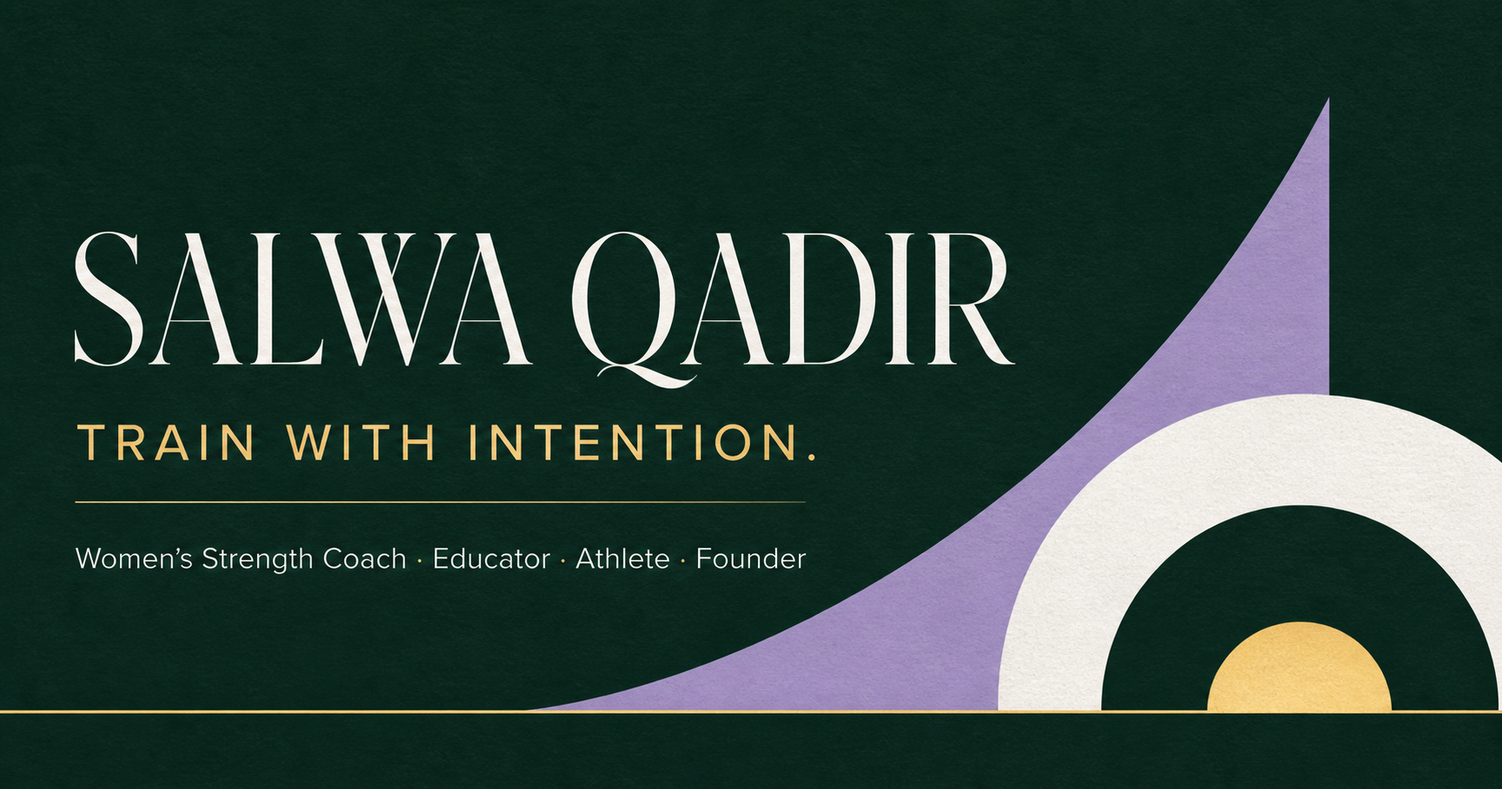
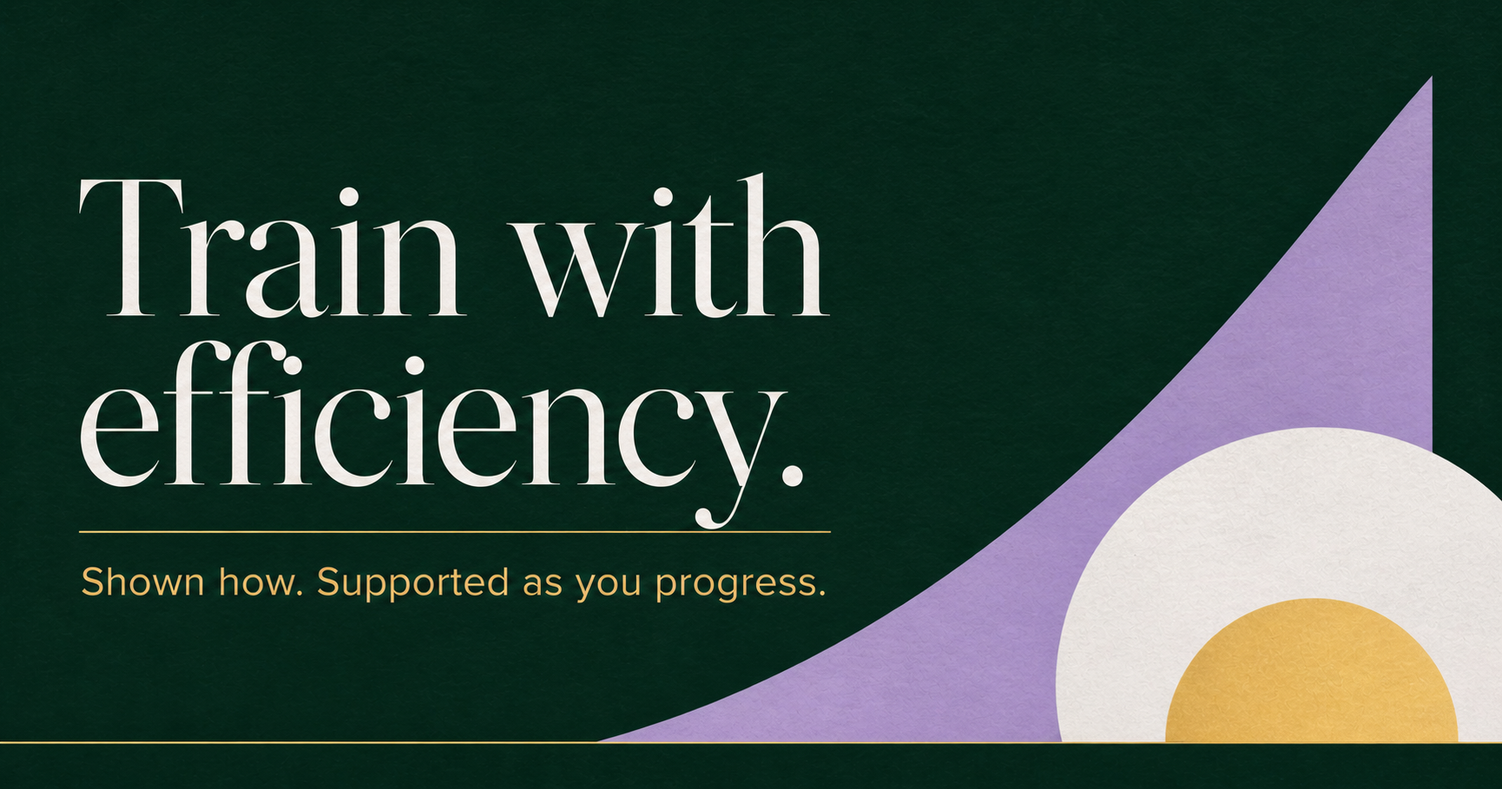
Rename approach to Train With Efficiency

Changed region(s): [[0.0, 0.0924, 1.0, 0.9549]]

diff --git a/public/index.html b/public/index.html
@@ -4,18 +4,18 @@
   <meta charset="utf-8">
   <meta name="viewport" content="width=device-width, initial-scale=1, viewport-fit=cover">
   <meta name="theme-color" content="#fbfcf9">
-  <meta name="description" content="Women’s strength coaching that teaches you to train with intention, understand your programming, recover intelligently, and progress with expert guidance.">
+  <meta name="description" content="Women’s strength coaching through Train With Efficiency: understand how exercise variations differ, choose what fits your goals, and progress with expert guidance.">
   <title>Salwa Qadir | Women’s Strength Coach in Milton &amp; Mississauga</title>
   <link rel="canonical" href="https://salwaqadir.com/">
   <link rel="icon" href="favicon.svg" type="image/svg+xml">
   <meta property="og:title" content="Salwa Qadir | Women’s Strength Coach in Milton &amp; Mississauga">
-  <meta property="og:description" content="Women’s strength coaching that teaches you to train with intention, understand your programming, recover intelligently, and progress with expert guidance.">
+  <meta property="og:description" content="Women’s strength coaching through Train With Efficiency: understand how exercise variations differ, choose what fits your goals, and progress with expert guidance.">
   <meta property="og:url" content="https://salwaqadir.com/">
   <meta property="og:type" content="website">
   <meta property="og:image" content="https://salwaqadir.com/og.png">
   <meta name="twitter:card" content="summary_large_image">
   <meta name="twitter:title" content="Salwa Qadir | Women’s Strength Coach in Milton &amp; Mississauga">
-  <meta name="twitter:description" content="Women’s strength coaching that teaches you to train with intention, understand your programming, recover intelligently, and progress with expert guidance.">
+  <meta name="twitter:description" content="Women’s strength coaching through Train With Efficiency: understand how exercise variations differ, choose what fits your goals, and progress with expert guidance.">
   <meta name="twitter:image" content="https://salwaqadir.com/og.png">
   <link rel="preconnect" href="https://fonts.googleapis.com">
   <link rel="preconnect" href="https://fonts.gstatic.com" crossorigin>
@@ -110,6 +110,9 @@
     .hero h1 { max-width: 12ch; font-size: clamp(3rem, 12.5vw, 6.7rem); }
     .hero-copy { max-width: 620px; margin: 22px 0 0; color: var(--ink); font-size: clamp(.98rem, 1.4vw, 1.15rem); }
     .hero-statement { max-width: 560px; color: var(--green); font-family: var(--serif); font-size: clamp(1.35rem, 2.25vw, 1.9rem); line-height: 1.16; }
+    .hero-supporting-copy { max-width: 660px; margin-top: 20px; }
+    .hero-supporting-copy .hero-copy { margin: 0; font-size: clamp(.9rem, 1.08vw, 1rem); line-height: 1.5; }
+    .hero-supporting-copy .hero-copy + .hero-copy { margin-top: 11px; }
     .program-link { color: var(--green); font-family: var(--serif); font-size: 1.16em; font-style: italic; font-weight: 700; }
     .hero-actions { display: flex; flex-wrap: wrap; gap: 12px; margin-top: 28px; }
     .scroll-hint { position: absolute; bottom: 24px; left: 50%; display: grid; justify-items: center; gap: 7px; transform: translateX(-50%); color: var(--muted); font-size: .62rem; font-weight: 700; letter-spacing: .18em; }
@@ -245,7 +248,7 @@
       :root { --header-h: 86px; }
       .hero { min-height: 100svh; display: grid; grid-template-columns: 42% 58%; grid-template-rows: auto 1fr; padding-top: 0; }
       .hero-role { position: relative; top: auto; right: auto; left: auto; grid-column: 2; grid-row: 1; width: auto; height: auto; min-height: 0; display: block; align-self: end; padding: 130px clamp(48px, 6vw, 100px) 0; }
-      .hero-media { grid-column: 1; grid-row: 1 / 3; height: 100svh; min-height: 100svh; }
+      .hero-media { grid-column: 1; grid-row: 1 / 3; height: auto; min-height: 100svh; align-self: stretch; }
       .hero-media img { object-position: center 55%; }
       .hero-content { grid-column: 2; grid-row: 2; min-height: 0; padding: 24px clamp(48px, 6vw, 100px) 110px; }
       .hero h1 { font-size: clamp(4rem, 5.8vw, 6.4rem); }
@@ -259,6 +262,17 @@
       .about-grid { grid-template-columns: .88fr 1.12fr; gap: 84px; align-items: center; }
       .menu-panel { padding-right: max(var(--gutter), calc((100vw - 1200px) / 2)); padding-left: max(var(--gutter), calc((100vw - 1200px) / 2)); }
       .menu-nav a { min-height: 76px; }
+    }
+
+    @media (min-width: 900px) and (max-height: 820px) {
+      .hero-role { padding-top: 102px; }
+      .hero-content { padding-top: 18px; padding-bottom: 56px; }
+      .hero h1 { font-size: clamp(3.6rem, 5vw, 5rem); }
+      .hero-statement { margin-top: 16px; font-size: 1.45rem; }
+      .hero-supporting-copy { margin-top: 14px; }
+      .hero-supporting-copy .hero-copy { font-size: .86rem; line-height: 1.4; }
+      .hero-supporting-copy .hero-copy + .hero-copy { margin-top: 8px; }
+      .hero-actions { margin-top: 20px; }
     }
 
     @media (max-height: 680px) { .scroll-hint { display: none; } .hero-content { padding-bottom: 50px; } }
@@ -281,7 +295,7 @@
     <nav class="menu-nav" aria-label="Primary navigation">
       <a href="about.html">About Me</a>
       <a href="approach.html">My Approach</a>
-      <a href="approach.html#train-with-intention">Train With Intention</a>
+      <a href="approach.html#train-with-efficiency">Train With Efficiency</a>
       <a href="stories.html">Client Stories</a>
       <a href="contact.html">Contact</a>
     </nav>
@@ -299,9 +313,13 @@
         <img src="assets/approach.jpg" alt="Salwa Qadir seated behind a barbell with a stability ball and water bottle" fetchpriority="high">
       </div>
       <div class="hero-content">
-        <h1 id="hero-heading">Train with <em class="accent">intention.</em></h1>
-        <p class="hero-copy hero-statement">Women don't need more exercises to copy. They need to understand what they're doing, how it should feel, and how to progress.</p>
-        <p class="hero-copy">My Train With Intention approach teaches women to move with control, understand their programming, recover intelligently, and become confident performing their training, with expert guidance behind them.</p>
+        <h1 id="hero-heading">Train with <em class="accent">efficiency.</em></h1>
+        <p class="hero-copy hero-statement">While the world is asking women to do more, I show you how to do less, so you can do more.</p>
+        <div class="hero-supporting-copy">
+          <p class="hero-copy">You can front squat or back squat. You can squat in a way where you feel more in your knees, or in your thighs, or in your glutes or in your calves. None of these are wrong.</p>
+          <p class="hero-copy">The question is: what do you want, why do you want it and how do you get there?</p>
+          <p class="hero-copy">Train With Efficiency shows you how these variations differ, how your goals determine which one we choose, and what you should feel when you're doing it. Because in this day and age, who has time to do more?</p>
+        </div>
         <div class="hero-actions">
           <a class="button button-solid" href="work.html">Work With Me</a>
           <a class="button button-outline" href="about.html">About Me</a>
@@ -317,7 +335,7 @@
           <h2 id="wbc-heading">The Women’s<br><span class="wbc-title-accent">Barbell Club</span></h2>
           <p class="wbc-pillars">Intention <i>•</i> Strength <i>•</i> Sisterhood</p>
           <p class="wbc-tagline"><span>Lighten Your Life.</span><em>Build strength. Fuel your body. Navigate real life together.</em></p>
-          <p class="wbc-body">I founded The Women’s Barbell Club to bring my Train With Intention approach into a community where women can build strength, understand their training, and stay supported as real life changes.</p>
+          <p class="wbc-body">I founded The Women’s Barbell Club to bring my Train With Efficiency approach into a community where women can build strength, understand their training, and stay supported as real life changes.</p>
           <p class="wbc-body">WBC is more than women lifting. It is a hybrid online and in-person community bringing together strength programming, technique, workout classes, lifting events, meal prep and fuel, retreats, and the sisterhood that helps carry the load of life.</p>
         </div>
         <a class="wbc-waitlist" href="https://www.thewomensbarbell.club/wbc-waitlist" aria-label="Join The Women’s Barbell Club waitlist">

diff --git a/public/contact.html b/public/contact.html
@@ -14,14 +14,14 @@
 <body>
   <a class="skip-link" href="#main">Skip to content</a>
   <header class="site-header" id="site-header"><a class="wordmark" href="index.html" aria-label="Salwa Qadir home"><span>SALWA</span><span>QADIR</span></a><button class="menu-toggle" type="button" aria-expanded="false" aria-controls="site-menu" aria-label="Open menu"><span></span><span></span><span></span></button></header>
-  <aside class="menu-panel" id="site-menu" aria-hidden="true"><nav class="menu-nav" aria-label="Primary navigation"><a href="about.html">About Me</a><a href="approach.html">My Approach</a><a href="approach.html#train-with-intention">Train With Intention</a><a href="stories.html">Client Stories</a><a href="contact.html">Contact</a></nav><div class="menu-footer"><span>Women’s Strength Coach · Educator · Athlete · Founder</span><a class="menu-instagram" href="https://www.instagram.com/salwaqfitness/" target="_blank" rel="noopener noreferrer">Instagram @salwaqfitness ↗</a></div></aside>
+  <aside class="menu-panel" id="site-menu" aria-hidden="true"><nav class="menu-nav" aria-label="Primary navigation"><a href="about.html">About Me</a><a href="approach.html">My Approach</a><a href="approach.html#train-with-efficiency">Train With Efficiency</a><a href="stories.html">Client Stories</a><a href="contact.html">Contact</a></nav><div class="menu-footer"><span>Women’s Strength Coach · Educator · Athlete · Founder</span><a class="menu-instagram" href="https://www.instagram.com/salwaqfitness/" target="_blank" rel="noopener noreferrer">Instagram @salwaqfitness ↗</a></div></aside>
   <main class="interior-main" id="main">
     <section class="section work" aria-labelledby="work-heading"><div class="shell">
       <a class="page-back" href="index.html">← Home</a>
       <div class="section-heading"><div><p class="eyebrow">Work with me</p><h1 id="work-heading">Get stronger for what <em class="accent">matters to you.</em></h1></div><p>My work takes different forms, but the starting point is always the woman in front of me. Whether you are here to get stronger, build your fitness career, bring meaningful education to a group, or explore a collaboration, we begin with what matters to you.</p></div>
       <div class="offer-grid" id="coaching-options">
         <article class="offer-card featured"><span class="offer-tag">ONE-TO-ONE COACHING</span><h3>One-to-One Strength Coaching</h3><strong class="offer-location">Mississauga and Milton, Ontario</strong><p>One-to-one coaching is especially suited to women returning to strength training after injury or surgery, or working with limitations that require closer attention.</p><p>The individual format gives us the time to focus on execution, make precise adjustments, and rebuild strength progressively. Where appropriate, I work alongside your physiotherapist or healthcare provider so your training supports the work already being done.</p><div class="offer-investment"><span>Investment</span><strong>$120 per session</strong></div><div class="offer-meta"><span>Limited availability</span></div><a class="text-link" href="#contact">Inquire about one-to-one coaching →</a></article>
-        <article class="offer-card featured"><span class="offer-tag">SMALL-GROUP TRAINING</span><h3>Women’s Strength Coaching</h3><strong class="offer-location">Mississauga and Milton, Ontario</strong><p>Small-group training built around my Train With Intention approach. You learn to move with control, understand your programming, recover intelligently, and make measurable progress with coaching and accountability behind you.</p><p>Coaching is purchased monthly and runs in 6 to 12 week cohorts, depending on the time of year.</p><div class="offer-investment"><span>Investment</span><strong>$280 per month</strong><small>8 sessions · $35 per session</small></div><div class="offer-meta"><span>Limited availability</span></div><a class="text-link" href="#contact">Inquire about small-group training →</a></article>
+        <article class="offer-card featured"><span class="offer-tag">SMALL-GROUP TRAINING</span><h3>Women’s Strength Coaching</h3><strong class="offer-location">Mississauga and Milton, Ontario</strong><p>Small-group training built around my Train With Efficiency approach. You learn to move with control, understand your programming, recover intelligently, and make measurable progress with coaching and accountability behind you.</p><p>Coaching is purchased monthly and runs in 6 to 12 week cohorts, depending on the time of year.</p><div class="offer-investment"><span>Investment</span><strong>$280 per month</strong><small>8 sessions · $35 per session</small></div><div class="offer-meta"><span>Limited availability</span></div><a class="text-link" href="#contact">Inquire about small-group training →</a></article>
         <article class="offer-card"><span class="offer-tag">MENTORSHIP</span><h3>Fitness Business Mentorship</h3><p>Focused one-to-one calls for women building careers in fitness. Bring client questions, sales challenges, or business-development decisions, and we’ll troubleshoot them together with practical, experience-led guidance.</p><div class="offer-meta"><span>Limited one-to-one availability</span></div><a class="text-link" href="#contact">Inquire about current openings →</a></article>
         <article class="offer-card"><span class="offer-tag">EDUCATION</span><h3>Workshops + Speaking</h3><p>Practical education for women, personal trainers, and communities on strength, training, and sustainable health.</p><div class="offer-meta"><span>In-person + virtual</span></div><a class="text-link" href="#contact">Discuss a workshop →</a></article>
         <article class="offer-card offer-card-wide"><span class="offer-tag">COLLABORATION</span><h3>Brand + Media Partnerships</h3><p>Values-aligned collaborations in women’s health, fitness, strength, recovery, and longevity.</p><div class="offer-meta"><span>Partnership inquiries</span></div><a class="text-link" href="#contact">Discuss a partnership →</a></article>
@@ -32,7 +32,7 @@
       <h2 id="wbc-heading">The Women’s<br><span class="wbc-title-accent">Barbell Club</span></h2>
       <p class="wbc-pillars">Intention <i>•</i> Strength <i>•</i> Sisterhood</p>
       <p class="wbc-tagline"><span>Lighten Your Life.</span><em>Build strength. Fuel your body. Navigate real life together.</em></p>
-      <p class="wbc-body">I founded The Women’s Barbell Club to bring my Train With Intention approach into a community where women can build strength, understand their training, and stay supported as real life changes.</p>
+      <p class="wbc-body">I founded The Women’s Barbell Club to bring my Train With Efficiency approach into a community where women can build strength, understand their training, and stay supported as real life changes.</p>
       <p class="wbc-body">WBC is more than women lifting. It is a hybrid online and in-person community bringing together strength programming, technique, workout classes, lifting events, meal prep and fuel, retreats, and the sisterhood that helps carry the load of life.</p>
     </div><a class="wbc-waitlist" href="https://www.thewomensbarbell.club/wbc-waitlist" aria-label="Join The Women’s Barbell Club waitlist"><span>JOIN THE</span><strong>WAITLIST</strong><small>THE WOMEN’S BARBELL CLUB ↗</small></a></div></section>
     <section class="section contact" id="contact" aria-labelledby="contact-heading"><div class="shell"><div class="contact-grid">

diff --git a/public/work.html b/public/work.html
@@ -13,14 +13,14 @@
 <body>
   <a class="skip-link" href="#main">Skip to content</a>
   <header class="site-header" id="site-header"><a class="wordmark" href="index.html" aria-label="Salwa Qadir home"><span>SALWA</span><span>QADIR</span></a><button class="menu-toggle" type="button" aria-expanded="false" aria-controls="site-menu" aria-label="Open menu"><span></span><span></span><span></span></button></header>
-  <aside class="menu-panel" id="site-menu" aria-hidden="true"><nav class="menu-nav" aria-label="Primary navigation"><a href="about.html">About Me</a><a href="approach.html">My Approach</a><a href="approach.html#train-with-intention">Train With Intention</a><a href="stories.html">Client Stories</a><a href="contact.html">Contact</a></nav><div class="menu-footer"><span>Women’s Strength Coach · Educator · Athlete · Founder</span><a class="menu-instagram" href="https://www.instagram.com/salwaqfitness/" target="_blank" rel="noopener noreferrer">Instagram @salwaqfitness ↗</a></div></aside>
+  <aside class="menu-panel" id="site-menu" aria-hidden="true"><nav class="menu-nav" aria-label="Primary navigation"><a href="about.html">About Me</a><a href="approach.html">My Approach</a><a href="approach.html#train-with-efficiency">Train With Efficiency</a><a href="stories.html">Client Stories</a><a href="contact.html">Contact</a></nav><div class="menu-footer"><span>Women’s Strength Coach · Educator · Athlete · Founder</span><a class="menu-instagram" href="https://www.instagram.com/salwaqfitness/" target="_blank" rel="noopener noreferrer">Instagram @salwaqfitness ↗</a></div></aside>
   <main class="interior-main" id="main">
     <section class="section work" aria-labelledby="work-heading"><div class="shell">
       <a class="page-back" href="index.html">← Home</a>
       <div class="section-heading"><div><p class="eyebrow">Work with me</p><h1 id="work-heading">Get stronger for what matters to you.</h1></div><p>My work takes different forms, but the starting point is always the woman in front of me. Whether you are here to get stronger, build your fitness career, bring meaningful education to a group, or explore a collaboration, we begin with what matters to you.</p></div>
       <div class="offer-grid" id="coaching-options">
         <article class="offer-card featured"><span class="offer-tag">ONE-TO-ONE COACHING</span><h3>One-to-One Strength Coaching</h3><p>One-to-one coaching is especially suited to women returning to strength training after injury or surgery, or working with limitations that require closer attention.</p><p>The individual format gives us the time to focus on execution, make precise adjustments, and rebuild strength progressively. Where appropriate, I work alongside your physiotherapist or healthcare provider so your training supports the work already being done.</p><div class="offer-investment"><span>Investment</span><strong>$120 per session</strong></div><div class="offer-meta"><span>Mississauga and Milton, Ontario</span><span>Limited availability</span></div><a class="text-link" href="contact.html">Inquire about one-to-one coaching →</a></article>
-        <article class="offer-card featured"><span class="offer-tag">SMALL-GROUP TRAINING</span><h3>Women’s Strength Coaching</h3><p>Small-group training built around my Train With Intention approach. You learn to move with control, understand your programming, recover intelligently, and make measurable progress with coaching and accountability behind you.</p><p>Coaching is purchased monthly and runs in 6 to 12 week cohorts, depending on the time of year.</p><div class="offer-investment"><span>Investment</span><strong>$280 per month</strong><small>8 sessions · $35 per session</small></div><div class="offer-meta"><span>Mississauga and Milton, Ontario</span><span>Limited availability</span></div><a class="text-link" href="contact.html">Inquire about small-group training →</a></article>
+        <article class="offer-card featured"><span class="offer-tag">SMALL-GROUP TRAINING</span><h3>Women’s Strength Coaching</h3><p>Small-group training built around my Train With Efficiency approach. You learn to move with control, understand your programming, recover intelligently, and make measurable progress with coaching and accountability behind you.</p><p>Coaching is purchased monthly and runs in 6 to 12 week cohorts, depending on the time of year.</p><div class="offer-investment"><span>Investment</span><strong>$280 per month</strong><small>8 sessions · $35 per session</small></div><div class="offer-meta"><span>Mississauga and Milton, Ontario</span><span>Limited availability</span></div><a class="text-link" href="contact.html">Inquire about small-group training →</a></article>
         <article class="offer-card"><span class="offer-tag">MENTORSHIP</span><h3>Fitness Business Mentorship</h3><p>Focused one-to-one calls for women building careers in fitness. Bring client questions, sales challenges, or business-development decisions, and we’ll troubleshoot them together with practical, experience-led guidance.</p><div class="offer-meta"><span>Limited one-to-one availability · Inquire about current openings</span></div><a class="text-link" href="contact.html">Inquire about mentorship →</a></article>
         <article class="offer-card"><span class="offer-tag">EDUCATION</span><h3>Workshops + Speaking</h3><p>Practical education for women, personal trainers, and communities on strength, training, and sustainable health.</p><div class="offer-meta"><span>In-person + virtual</span></div><a class="text-link" href="contact.html">Discuss a workshop →</a></article>
         <article class="offer-card offer-card-wide"><span class="offer-tag">COLLABORATION</span><h3>Brand + Media Partnerships</h3><p>Values-aligned collaborations in women’s health, fitness, strength, recovery, and longevity.</p><div class="offer-meta"><span>Partnership inquiries</span></div><a class="text-link" href="contact.html">Discuss a partnership →</a></article>

diff --git a/public/program.html b/public/program.html
@@ -1,7 +1,7 @@
 <!doctype html>
 <html lang="en"><head><meta charset="utf-8"><meta name="viewport" content="width=device-width, initial-scale=1, viewport-fit=cover"><meta name="theme-color" content="#eef2ee"><title>From Bodyweight to Barbells | Salwa Qadir</title><link rel="preconnect" href="https://fonts.googleapis.com"><link rel="preconnect" href="https://fonts.gstatic.com" crossorigin><link href="https://fonts.googleapis.com/css2?family=DM+Serif+Display:ital@0;1&amp;family=Inter:wght@400;500;600;700&amp;display=swap" rel="stylesheet"><link rel="stylesheet" href="assets/interior.css"></head>
 <body><a class="skip-link" href="#main">Skip to content</a><header class="site-header" id="site-header"><a class="wordmark" href="index.html" aria-label="Salwa Qadir home"><span>SALWA</span><span>QADIR</span></a><button class="menu-toggle" type="button" aria-expanded="false" aria-controls="site-menu" aria-label="Open menu"><span></span><span></span><span></span></button></header>
-  <aside class="menu-panel" id="site-menu" aria-hidden="true"><nav class="menu-nav" aria-label="Primary navigation"><a href="about.html">About Me</a><a href="approach.html">My Approach</a><a href="program.html">Bodyweight to Barbells</a><a href="stories.html">Client Stories</a><a href="contact.html">Contact</a></nav><div class="menu-footer"><span>Women’s Strength Coach · Educator · Athlete · Founder</span><a class="menu-instagram" href="https://www.instagram.com/salwaqfitness/" target="_blank" rel="noopener noreferrer">Instagram @salwaqfitness ↗</a></div></aside>
+  <aside class="menu-panel" id="site-menu" aria-hidden="true"><nav class="menu-nav" aria-label="Primary navigation"><a href="about.html">About Me</a><a href="approach.html">My Approach</a><a href="approach.html#train-with-efficiency">Train With Efficiency</a><a href="stories.html">Client Stories</a><a href="contact.html">Contact</a></nav><div class="menu-footer"><span>Women’s Strength Coach · Educator · Athlete · Founder</span><a class="menu-instagram" href="https://www.instagram.com/salwaqfitness/" target="_blank" rel="noopener noreferrer">Instagram @salwaqfitness ↗</a></div></aside>
   <main class="interior-main" id="main"><section class="section program" aria-labelledby="program-heading"><div class="shell"><a class="page-back" href="index.html">← Home</a><div class="section-heading"><div><p class="eyebrow">Signature Program · The Women’s Barbell Club</p><h1 id="program-heading">From Bodyweight <em class="accent">to Barbells.</em></h1></div><p>A progressive strength program that meets you where you are and teaches you how to become a confident lifter, one purposeful stage at a time. From Bodyweight to Barbells is the signature coaching pathway of The Women’s Barbell Club and the method at the centre of my one-to-one and small-group strength coaching.</p></div>
     <div class="program-ladder" aria-label="From Bodyweight to Barbells progression"><article class="stage"><span class="stage-number">01</span><h3>Bodyweight</h3><strong>Learn how your body moves.</strong><p>We develop control, stability, mobility, and confidence in the movement patterns that support everything that comes next.</p></article><article class="stage"><span class="stage-number">02</span><h3>Dumbbells</h3><strong>Add load with control.</strong><p>Dumbbells help you develop coordination, balance, and strength while learning how to move weight intentionally, not simply complete repetitions.</p></article><article class="stage"><span class="stage-number">03</span><h3>Machines</h3><strong>Build muscle with purpose.</strong><p>Machines are a powerful tool for building strength and lean muscle. You’ll learn to use them safely and effectively, building the confidence and strength to progress to barbell training.</p></article><article class="stage"><span class="stage-number">04</span><h3>Barbell</h3><strong>Bring the foundation together.</strong><p>We introduce the barbell progressively so you understand the lifts, trust your body, and feel confident taking up space at the rack.</p></article></div>
     <div class="program-details"><article class="detail-card"><p class="eyebrow">How it works</p><h3>Use every stage with purpose.</h3><p>Your starting point may be bodyweight, dumbbells, machines, or the barbell itself. We assess what your body, experience, and current season need, then use every stage with purpose. You learn how to move, why your program is structured the way it is, and how to keep building strength without feeling as though every interruption sends you back to the beginning.<br><br>Progression is never about rushing toward the barbell or treating one form of training as more legitimate than another. It is about using the right tool at the right time and developing confidence through experience.</p></article><article class="detail-card"><h3>This is for women who</h3><ul class="fit-list"><li>Are new to strength training</li><li>Are returning after time away</li><li>Are rebuilding after pain or a significant life change</li><li>Are ready to progress beyond familiar exercises or equipment</li><li>Want to become confident barbell lifters</li></ul></article></div>

diff --git a/public/approach.html b/public/approach.html
@@ -4,7 +4,7 @@
   <meta charset="utf-8">
   <meta name="viewport" content="width=device-width, initial-scale=1, viewport-fit=cover">
   <meta name="theme-color" content="#fbfcf9">
-  <title>Train With Intention | Salwa Qadir</title>
+  <title>Train With Efficiency | Salwa Qadir</title>
   <link rel="preconnect" href="https://fonts.googleapis.com">
   <link rel="preconnect" href="https://fonts.gstatic.com" crossorigin>
   <link href="https://fonts.googleapis.com/css2?family=DM+Serif+Display:ital@0;1&amp;family=Inter:wght@400;500;600;700&amp;display=swap" rel="stylesheet">
@@ -17,13 +17,13 @@
     <button class="menu-toggle" type="button" aria-expanded="false" aria-controls="site-menu" aria-label="Open menu"><span></span><span></span><span></span></button>
   </header>
   <aside class="menu-panel" id="site-menu" aria-hidden="true">
-    <nav class="menu-nav" aria-label="Primary navigation"><a href="about.html">About Me</a><a href="approach.html">My Approach</a><a href="approach.html#train-with-intention">Train With Intention</a><a href="stories.html">Client Stories</a><a href="contact.html">Contact</a></nav>
+    <nav class="menu-nav" aria-label="Primary navigation"><a href="about.html">About Me</a><a href="approach.html">My Approach</a><a href="approach.html#train-with-efficiency">Train With Efficiency</a><a href="stories.html">Client Stories</a><a href="contact.html">Contact</a></nav>
     <div class="menu-footer"><span>Women’s Strength Coach · Educator · Athlete · Founder</span><a class="menu-instagram" href="https://www.instagram.com/salwaqfitness/" target="_blank" rel="noopener noreferrer">Instagram @salwaqfitness ↗</a></div>
   </aside>
   <main class="interior-main approach" id="main">
     <section class="section" aria-labelledby="approach-heading">
       <div class="shell"><a class="page-back" href="index.html">← Home</a><div class="editorial-grid">
-        <div class="editorial-copy"><p class="eyebrow">My Approach</p><h1 id="approach-heading">Train with intention <em class="accent">while life is happening.</em></h1><p>We train your body while working with the life you are already living. You learn what you are doing, why it belongs in your program, and how it should feel. As your strength develops, you also learn how to adjust, recover, follow through, and keep progressing without treating every interruption as a reason to start again.</p></div>
+        <div class="editorial-copy"><p class="eyebrow">My Approach</p><h1 id="approach-heading">Train with efficiency <em class="accent">while life is happening.</em></h1><p>We train your body while working with the life you are already living. You learn what you are doing, why it belongs in your program, and how it should feel. As your strength develops, you also learn how to adjust, recover, follow through, and keep progressing without treating every interruption as a reason to start again.</p></div>
         <div class="editorial-photo editorial-photo-landscape"><img src="assets/foundations.jpg" alt="Salwa Qadir and her daughter exercising together on the ground"></div>
       </div></div>
     </section>
@@ -33,9 +33,9 @@
         <div class="editorial-photo"><img src="assets/values.jpg" alt="Salwa Qadir beside a stability ball and water bottle"></div>
       </div></div>
     </section>
-    <section class="section framework" id="train-with-intention" aria-labelledby="framework-heading">
+    <section class="section framework" id="train-with-efficiency" aria-labelledby="framework-heading">
       <div class="shell">
-        <div class="framework-intro"><p class="eyebrow">Train With Intention</p><h2 id="framework-heading">Independent in performing the work. <em class="accent">Supported in progressing it.</em></h2><p>My approach is supported independence. You become confident performing your workouts without needing constant supervision, while your planning, progression, recovery, goals, and accountability continue to be supported.</p></div>
+        <div class="framework-intro"><p class="eyebrow">Train With Efficiency</p><h2 id="framework-heading">Independent in performing the work. <em class="accent">Supported in progressing it.</em></h2><p>My approach is supported independence. You become confident performing your workouts without needing constant supervision, while your planning, progression, recovery, goals, and accountability continue to be supported.</p></div>
         <div class="pillars-grid">
           <article class="pillar-card"><span class="pillar-number">01</span><h3>Intentional Movement + Training Literacy</h3><p>Learn which muscles should work, how the movement should feel, and how to perform it with control. Understand exercises, sets, repetitions, weight selection, progression, and the purpose behind your program.</p></article>
           <article class="pillar-card"><span class="pillar-number">02</span><h3>Recovery Intelligence + Visible Progress</h3><p>Understand how sleep, nutrition, hydration, mobility, stress, and appropriate rest affect performance. See evidence through strength, technique, consistency, body changes, the scale when relevant, and everyday capability.</p></article>

diff --git a/public/stories.html b/public/stories.html
@@ -13,7 +13,7 @@
 <body>
   <a class="skip-link" href="#main">Skip to content</a>
   <header class="site-header" id="site-header"><a class="wordmark" href="index.html" aria-label="Salwa Qadir home"><span>SALWA</span><span>QADIR</span></a><button class="menu-toggle" type="button" aria-expanded="false" aria-controls="site-menu" aria-label="Open menu"><span></span><span></span><span></span></button></header>
-  <aside class="menu-panel" id="site-menu" aria-hidden="true"><nav class="menu-nav" aria-label="Primary navigation"><a href="about.html">About Me</a><a href="approach.html">My Approach</a><a href="approach.html#train-with-intention">Train With Intention</a><a href="stories.html">Client Stories</a><a href="contact.html">Contact</a></nav><div class="menu-footer"><span>Women’s Strength Coach · Educator · Athlete · Founder</span><a class="menu-instagram" href="https://www.instagram.com/salwaqfitness/" target="_blank" rel="noopener noreferrer">Instagram @salwaqfitness ↗</a></div></aside>
+  <aside class="menu-panel" id="site-menu" aria-hidden="true"><nav class="menu-nav" aria-label="Primary navigation"><a href="about.html">About Me</a><a href="approach.html">My Approach</a><a href="approach.html#train-with-efficiency">Train With Efficiency</a><a href="stories.html">Client Stories</a><a href="contact.html">Contact</a></nav><div class="menu-footer"><span>Women’s Strength Coach · Educator · Athlete · Founder</span><a class="menu-instagram" href="https://www.instagram.com/salwaqfitness/" target="_blank" rel="noopener noreferrer">Instagram @salwaqfitness ↗</a></div></aside>
   <main class="interior-main" id="main">
     <section class="section stories" aria-labelledby="stories-heading"><div class="shell">
       <a class="page-back" href="index.html">← Home</a>

diff --git a/public/about.html b/public/about.html
@@ -17,7 +17,7 @@
     <button class="menu-toggle" type="button" aria-expanded="false" aria-controls="site-menu" aria-label="Open menu"><span></span><span></span><span></span></button>
   </header>
   <aside class="menu-panel" id="site-menu" aria-hidden="true">
-    <nav class="menu-nav" aria-label="Primary navigation"><a href="about.html">About Me</a><a href="approach.html">My Approach</a><a href="approach.html#train-with-intention">Train With Intention</a><a href="stories.html">Client Stories</a><a href="contact.html">Contact</a></nav>
+    <nav class="menu-nav" aria-label="Primary navigation"><a href="about.html">About Me</a><a href="approach.html">My Approach</a><a href="approach.html#train-with-efficiency">Train With Efficiency</a><a href="stories.html">Client Stories</a><a href="contact.html">Contact</a></nav>
     <div class="menu-footer"><span>Women’s Strength Coach · Educator · Athlete · Founder</span><a class="menu-instagram" href="https://www.instagram.com/salwaqfitness/" target="_blank" rel="noopener noreferrer">Instagram @salwaqfitness ↗</a></div>
   </aside>
   <main class="interior-main about" id="main">

diff --git a/lib/seo.ts b/lib/seo.ts
@@ -3,5 +3,5 @@ export const SITE_NAME = "Salwa Qadir";
 export const SITE_TITLE =
   "Salwa Qadir | Women’s Strength Coach in Milton & Mississauga";
 export const SITE_DESCRIPTION =
-  "Women’s strength coaching that teaches you to train with intention, understand your programming, recover intelligently, and progress with expert guidance.";
+  "Women’s strength coaching through Train With Efficiency: understand how exercise variations differ, choose what fits your goals, and progress with expert guidance.";
 export const SOCIAL_IMAGE = "/og.png";

diff --git a/app/manifest.ts b/app/manifest.ts
@@ -7,7 +7,7 @@ export default function manifest(): MetadataRoute.Manifest {
     name: "Salwa Qadir | Women’s Strength Coach",
     short_name: "Salwa Qadir",
     description:
-      "Women’s strength coaching built around the Train With Intention approach.",
+      "Women’s strength coaching built around the Train With Efficiency approach.",
     start_url: "/",
     display: "standalone",
     background_color: "#fbfcf9",

diff --git a/app/layout.tsx b/app/layout.tsx
@@ -54,7 +54,7 @@ export const metadata: Metadata = {
         url: `${basePath}${SOCIAL_IMAGE}`,
         width: 1730,
         height: 909,
-        alt: "Salwa Qadir: Train with intention.",
+        alt: "Salwa Qadir: Train with efficiency.",
       },
     ],
     type: "website",
